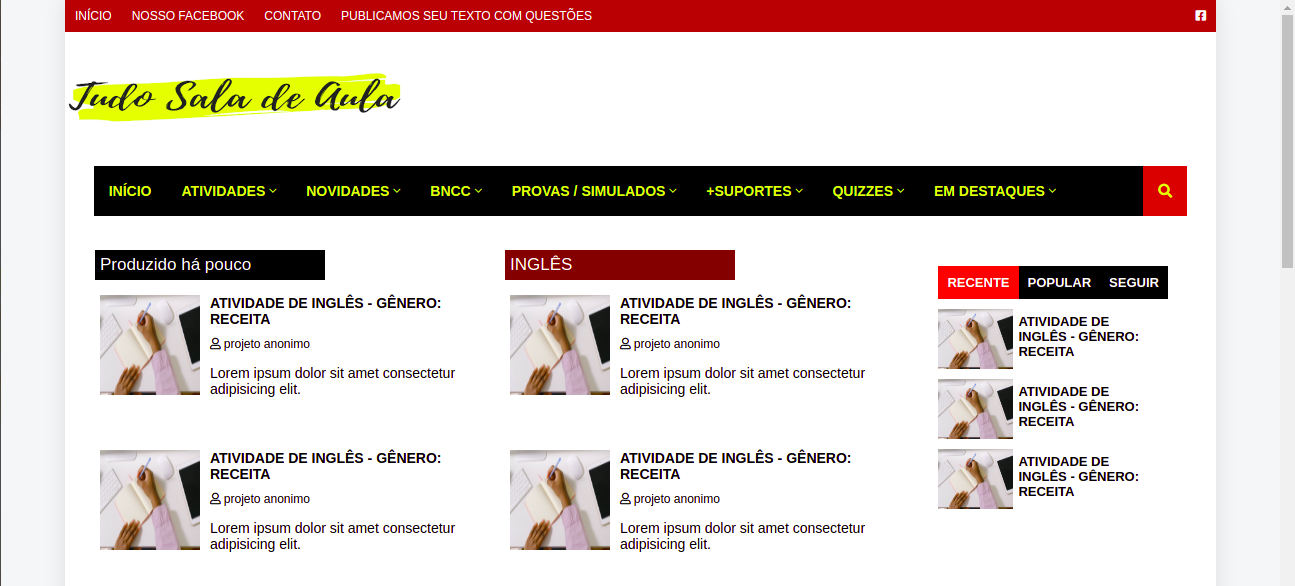
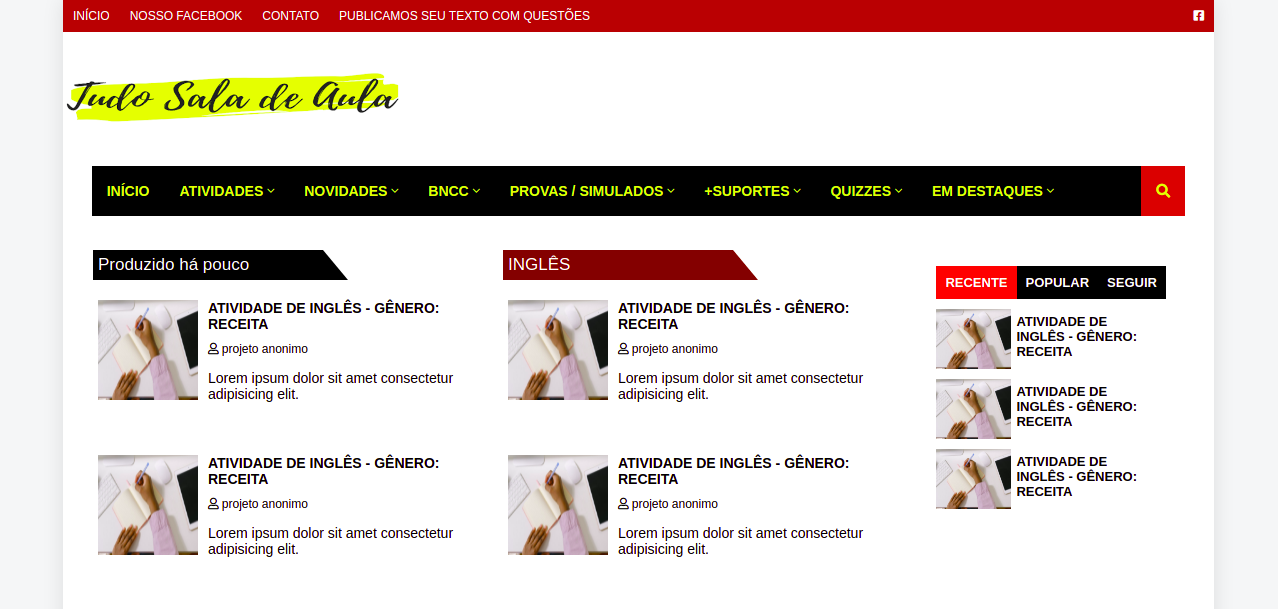
Adiciona  estilizacao para titulo de bloco

diff --git a/index.html b/index.html
@@ -283,7 +283,7 @@
                         </div>
                     </div>
                     <div class="assunto">
-                        <div class="titulo" style="background-color: #800b00">
+                        <div class="titulo" style="border-bottom: 30px solid #800b00;">
                             <h2>INGLÊS</h2>
                         </div>
                         <div class="post">
@@ -334,7 +334,7 @@
                 </div>
                 <div class="colunas-2">
                     <div class="assunto">
-                        <div class="titulo" style="background-color: #191970;">
+                        <div class="titulo" style="border-bottom: 30px solid #191970;">
                             <h2>INGLÊS - INTERMÉDIARIO</h2>
                         </div>
                         <div class="post">
@@ -372,7 +372,7 @@
                         </div>
                     </div>
                     <div class="assunto">
-                        <div class="titulo" style="background-color: red">
+                        <div class="titulo" style="border-bottom: 30px solid red;">
                             <h2>INGLÊS AVANÇADO</h2>
                         </div>
                         <div class="post">

diff --git a/estilos/styles.css b/estilos/styles.css
@@ -244,13 +244,13 @@ body, ul, li{
     margin: 20px 0 0 30px;
 }
 .assunto .titulo{
-    background-color: black;
-    color: white;
     width: 230px;
-    top: 100px;
-    height: 30px;
+    height: 0;
+    border-bottom: 30px solid black;
+    border-right: 25px solid transparent;
+    color: white;
     line-height: 30px;
-    margin-bottom: 15px;
+    margin-bottom: 20px;
 }
 .assunto .titulo h2{
     font-size: 17px;
